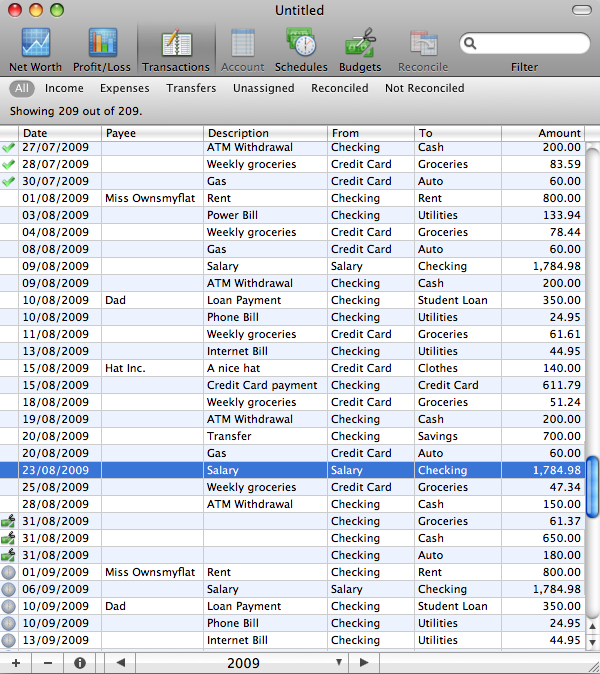
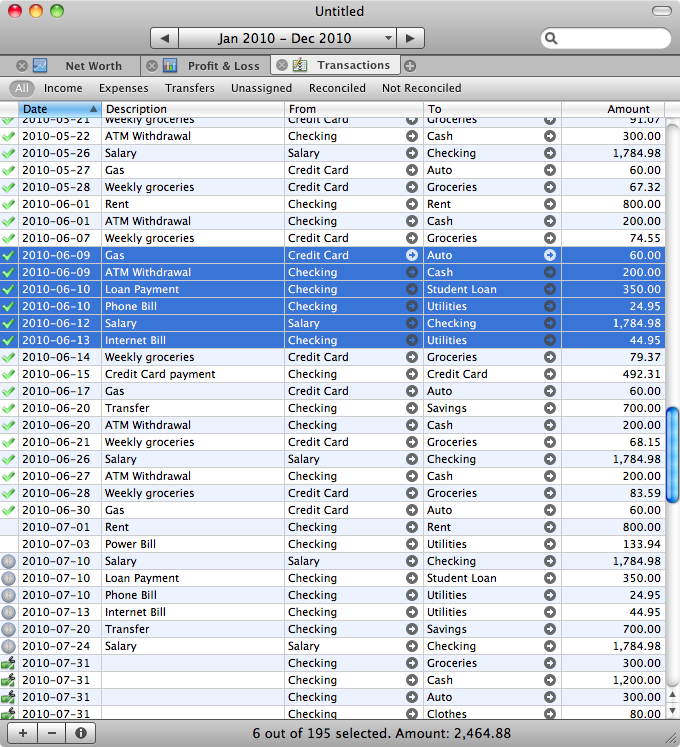
Tweaked help file.

diff --git a/help/de/credits.md b/help/de/credits.md
@@ -1,33 +1,37 @@
 Liste aller direkten sowie indirekten Personen / Projekte, die einen Beitrag geleistet haben. Vielen Dank!
 
-**Virgil Dupras, Entwickler**
+**Virgil Dupras, Entwickler**<br/>
 <http://www.hardcoded.net>
 
 **Eric Mc Sween, Entwickler**
 
-**Mike Rohde, Icon Designer**
+**Mike Rohde, Icon Designer**<br/>
 <http://www.rohdesign.com>
 
-**Python, programming language**
-Das beste der besten
+**Mariann Landsberger, German localization**
+
+**Michael Pitra, German localization**
+
+**Python, programming language**<br/>
+Das beste der besten<br/>
 <http://www.python.org>
 
-**PyObjC, Python-to-Cocoa bridge**
-Für die Mac OS X Version
+**PyObjC, Python-to-Cocoa bridge**<br/>
+Für die Mac OS X Version<br/>
 <http://pyobjc.sourceforge.net>
 
-**Sparkle, Auto-update library**
-Für die Mac OS X Version
+**Sparkle, Auto-update library**<br/>
+Für die Mac OS X Version<br/>
 <http://andymatuschak.org/pages/sparkle>
 
-**AMButtonBar, Filter bar component**
-Für die Mac OS X Version
+**AMButtonBar, Filter bar component**<br/>
+Für die Mac OS X Version<br/>
 <http://www.harmless.de>
 
-**PSMTabBarControl, Tab bar component**
-Für die Mac OS X Version
+**PSMTabBarControl, Tab bar component**<br/>
+Für die Mac OS X Version<br/>
 <http://www.positivespinmedia.com>
 
-**Sie, als moneyGuru Benutzer**
+**Sie, als moneyGuru Benutzer**<br/>
 You rock.
 

diff --git a/help/en/credits.md b/help/en/credits.md
@@ -1,32 +1,36 @@
 Below is the list of direct or indirect contributors to moneyGuru. Thanks!
 
-**Virgil Dupras, Developer**
+**Virgil Dupras, Developer**<br/>
 <http://www.hardcoded.net>
 
 **Eric Mc Sween, Developer**
 
-**Mike Rohde, Main icon designer**
+**Mike Rohde, Main icon design**<br/>
 <http://www.rohdesign.com>
 
-**Python, Programming language**
-The bestest of the bests
+**Mariann Landsberger, German localization**
+
+**Michael Pitra, German localization**
+
+**Python, Programming language**<br/>
+The bestest of the bests<br/>
 <http://www.python.org>
 
-**PyObjC, Python-to-Cocoa bridge**
-Used for the Mac OS X version
+**PyObjC, Python-to-Cocoa bridge**<br/>
+Used for the Mac OS X version<br/>
 <http://pyobjc.sourceforge.net>
 
-**Sparkle, Auto-update library**
-Used for the Mac OS X version
+**Sparkle, Auto-update library**<br/>
+Used for the Mac OS X version<br/>
 <http://andymatuschak.org/pages/sparkle>
 
-**AMButtonBar, Filter bar component**
-Used for the Mac OS X version
+**AMButtonBar, Filter bar component**<br/>
+Used for the Mac OS X version<br/>
 <http://www.harmless.de>
 
-**PSMTabBarControl, Tab bar component**
-Used for the Mac OS X version
+**PSMTabBarControl, Tab bar component**<br/>
+Used for the Mac OS X version<br/>
 <http://www.positivespinmedia.com>
 
-**You, moneyGuru user**
+**You, moneyGuru user**<br/>
 You rock.

diff --git a/help/fr/credits.md b/help/fr/credits.md
@@ -1,32 +1,36 @@
 Voici la liste des contributeurs de moneyGuru. Merci!
 
-**Virgil Dupras, Programmeur**
+**Virgil Dupras, Programmeur**<br/>
 <http://www.hardcoded.net>
 
 **Eric Mc Sween, Programmeur**
 
-**Mike Rohde, Design icône**
+**Mike Rohde, Design icône**<br/>
 <http://www.rohdesign.com>
 
-**Python, Langage de programmation**
-Le meilleur des meilleurs
+**Mariann Landsberger, localisation allemande**
+
+**Michael Pitra, localisation allemande**
+
+**Python, Langage de programmation**<br/>
+Le meilleur des meilleurs<br/>
 <http://www.python.org>
 
-**PyObjC, Pont Python/Cocoa**
-Pour la version Mac OS X
+**PyObjC, Pont Python/Cocoa**<br/>
+Pour la version Mac OS X<br/>
 <http://pyobjc.sourceforge.net>
 
-**Sparkle, Librairie de mise-à-jour**
-Pour la version Mac OS X
+**Sparkle, Librairie de mise-à-jour**<br/>
+Pour la version Mac OS X<br/>
 <http://andymatuschak.org/pages/sparkle>
 
-**AMButtonBar, Les barres de filtre**
-Pour la version Mac OS X
+**AMButtonBar, Les barres de filtre**<br/>
+Pour la version Mac OS X<br/>
 <http://www.harmless.de>
 
-**PSMTabBarControl, Les barres d'onglets**
-Pour la version Mac OS X
+**PSMTabBarControl, Les barres d'onglets**<br/>
+Pour la version Mac OS X<br/>
 <http://www.positivespinmedia.com>
 
-**Vous, Utilisateur moneyGuru**
+**Vous, Utilisateur moneyGuru**<br/>
 Merci!

diff --git a/help/en/intro.md b/help/en/intro.md
@@ -1,4 +1,4 @@
-This help document is also available in [french](http://www.hardcoded.net/moneyguru/help/fr).
+This help document is also available in [french](http://www.hardcoded.net/moneyguru/help/fr) and [german](http://www.hardcoded.net/moneyguru/help/de).
 
 moneyGuru is a personal finance management application. With it, you can evaluate your current financial situation so you can make informed (and thus better) financial decisions. Most finance applications have the same goal, but moneyGuru's difference is in the way it achieves it. Rather than having reports which you have to configure (or find out which pre-configured report is the right one), your important financial data (net worth, profit) is constantly up-to-date and "in your face". This allows you to constantly make informed decision rather than doing so periodically.
 

diff --git a/help/en/basics.md b/help/en/basics.md
@@ -8,7 +8,7 @@ moneyGuru is based around different views (the main ones are explained below) th
 The date range
 -----
 
-The currently selected date range affects the whole application. Everything you see in the views is for the current date range. For example, if August 2008 is selected, everything that you see in all the views is data from 2008/08/01 to 2008/08/31. The range is controlled by this little widget:
+The currently selected date range affects the whole application. Everything you see in the views is for the current date range. For example, if "Jan 2010 - Dec 2010" is selected, everything that you see in all the views is data from 2010/01/01 to 2010/12/31. The range is controlled by this little widget:
 
 ![](images/basics_date_range.png)
 

diff --git a/help/fr/intro.md b/help/fr/intro.md
@@ -1,4 +1,4 @@
-Ce document est aussi disponible en [anglais](http://www.hardcoded.net/moneyguru/help/en).
+Ce document est aussi disponible en [anglais](http://www.hardcoded.net/moneyguru/help/en) et en [allemand](http://www.hardcoded.net/moneyguru/help/de).
 
 moneyGuru est une application de gestion de finances personnelles. Vous pouvez y évaluer votre situations financière afin de prendre de meilleures décisions.
 
